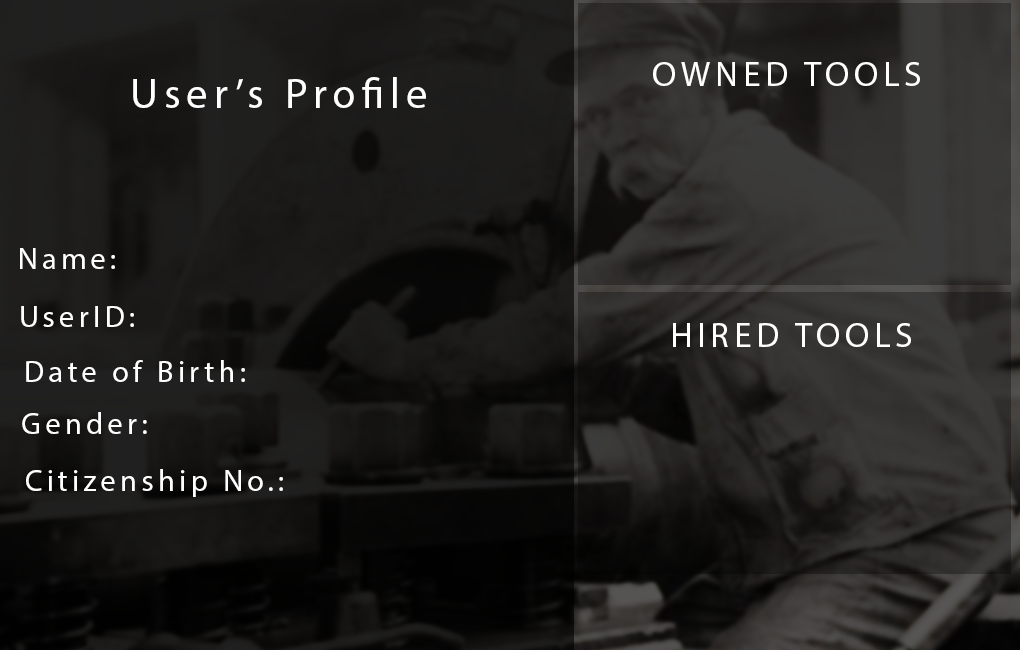
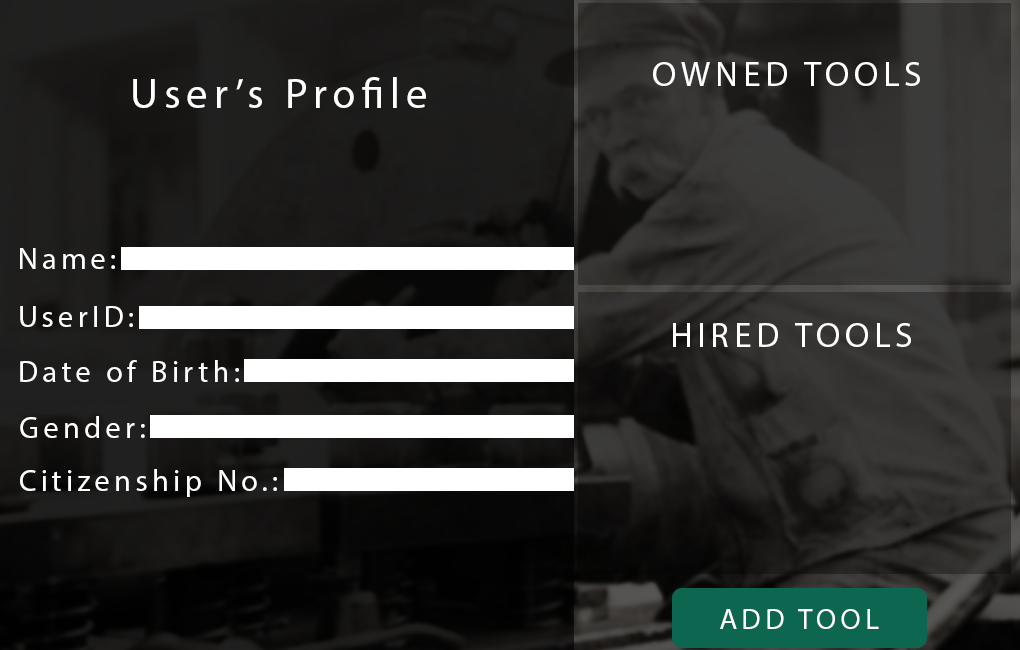
#Added placeholders to login and register screen #Added Function to view own tool and hired tool

diff --git a/final project/main with class.py b/final project/main with class.py
@@ -23,17 +23,53 @@ class LoginRegister:
         self.Login_UI()
         self.window.mainloop()
 
+    def clear_widget(event):
+        if UID_Entry == UID_Entry.focus_get() and UID_Entry.get() == 'Enter Username':
+            UID_Entry.delete(0, END)
+        elif Pass_Entry == Pass_Entry.focus_get() and Pass_Entry.get() == '          ':
+            Pass_Entry.delete(0, END)
+        elif register_name == register_name.focus_get() and register_name.get() == 'Full Name':
+            register_name.delete(0, END)
+        elif register_userid == register_userid.focus_get() and register_userid.get() == 'User ID':
+            register_userid.delete(0, END)
+        elif register_password == register_password.focus_get() and register_password.get() == '          ':
+            register_password.delete(0, END)
+        elif register_DOB == register_DOB.focus_get() and register_DOB.get() == 'Date of Birth':
+            register_DOB.delete(0, END)
+        elif register_citizenshipno == register_citizenshipno.focus_get() and register_citizenshipno.get() == 'Citizenship Number':
+            register_citizenshipno.delete(0, END)
+
+    def repopulate_defaults(event):
+        if UID_Entry != UID_Entry.focus_get() and UID_Entry.get() == '':
+            UID_Entry.insert(0, 'Enter Username')
+        elif Pass_Entry != UID_Entry.focus_get() and Pass_Entry.get() == '':
+            Pass_Entry.insert(0, '          ')
+        elif register_name != register_name.focus_get() and register_name.get() == '':
+            register_name.insert(0, "Full Name")
+        elif register_userid != register_userid.focus_get() and register_userid.get() == '':
+            register_userid.insert(0, "User ID")
+        elif register_password != register_password.focus_get() and register_password.get() == '':
+            register_password.insert(0, "          ")
+        elif register_DOB != register_DOB.focus_get() and register_DOB.get() == '':
+            register_DOB.insert(0, "Date of Birth")
+        elif register_citizenshipno != register_citizenshipno.focus_get() and register_citizenshipno.get() == '':
+            register_citizenshipno.insert(0, "Citizenship Number")
+
     def Login_UI(self):
         global UID_Entry, Pass_Entry
 
         UID_Entry = Entry(self.window, font=(15))
-        UID_Entry.insert(0, "UserID")
+        UID_Entry.insert(0, "Enter Username")
         UID_Entry.config(bd=0)
+        UID_Entry.bind("<FocusIn>", LoginRegister.clear_widget)
+        UID_Entry.bind("<FocusOut>", LoginRegister.repopulate_defaults)
         UID_Entry.place(x=370, y=347, relwidth=0.27, relheight=0.05)
 
         Pass_Entry = Entry(self.window, show="*", font=(15))
-        Pass_Entry.insert(0, "Password")
+        Pass_Entry.insert(0, "          ")
         Pass_Entry.config(bd=0)
+        Pass_Entry.bind("<FocusIn>", LoginRegister.clear_widget)
+        Pass_Entry.bind("<FocusOut>", LoginRegister.repopulate_defaults)
         Pass_Entry.place(x=370, y=433, relwidth=0.27, relheight=0.05)
 
         Login_Button_Img = PhotoImage(file="img//login_button.png")
@@ -67,26 +103,36 @@ class LoginRegister:
         register_name = Entry(self.Register_win)
         register_name.insert(0, "Full Name")
         register_name.config(bd=0)
+        register_name.bind("<FocusIn>", LoginRegister.clear_widget)
+        register_name.bind("<FocusOut>", LoginRegister.repopulate_defaults)
         register_name.place(x=600, y=145, relwidth=0.34, relheight=0.05)
 
         register_userid = Entry(self.Register_win)
-        register_userid.insert(0, "UserID")
+        register_userid.insert(0, "User ID")
         register_userid.config(bd=0)
+        register_userid.bind("<FocusIn>", LoginRegister.clear_widget)
+        register_userid.bind("<FocusOut>", LoginRegister.repopulate_defaults)
         register_userid.place(x=600, y=210, relwidth=0.34, relheight=0.05)
 
         register_password = Entry(self.Register_win, show = "*")
-        register_password.insert(0, "Password")
+        register_password.insert(0, "          ")
         register_password.config(bd=0)
+        register_password.bind("<FocusIn>", LoginRegister.clear_widget)
+        register_password.bind("<FocusOut>", LoginRegister.repopulate_defaults)
         register_password.place(x=600, y=280, relwidth=0.34, relheight=0.05)
 
         register_DOB = Entry(self.Register_win)
         register_DOB.insert(0, "Date of Birth")
         register_DOB.config(bd=0)
+        register_DOB.bind("<FocusIn>", LoginRegister.clear_widget)
+        register_DOB.bind("<FocusOut>", LoginRegister.repopulate_defaults)
         register_DOB.place(x=600, y=350, relwidth=0.34, relheight=0.05)
 
         register_citizenshipno = Entry(self.Register_win)
-        register_citizenshipno.insert(0, "CitizenShip Number")
+        register_citizenshipno.insert(0, "Citizenship Number")
         register_citizenshipno.config(bd = 0)
+        register_citizenshipno.bind("<FocusIn>", LoginRegister.clear_widget)
+        register_citizenshipno.bind("<FocusOut>", LoginRegister.repopulate_defaults)
         register_citizenshipno.place(x=600, y=420, relwidth=0.34, relheight=0.05)
 
         Register_Button_Img = PhotoImage(file="img//register_button.png")
@@ -161,7 +207,6 @@ class LoginRegister:
                 messagebox.showinfo("Login", "The Password you entered is incorrect!")
         except KeyError:
             messagebox.showinfo("Login", "The UserID you’ve entered doesn’t match any account. Please register first! ")
-
 
 class Home:
     def __init__(self):
@@ -318,19 +363,19 @@ class Profile():
     def ProfileScreen(self):
         open_db = json.load(open("database.txt"))
 
-        Profile_Name = Label(self.profile_win, text=open_db[LoggedIn_user][0]["Name"], font=(15))
-        Profile_Name.place(x = 150, y = 265)
+        Profile_Name = Label(self.profile_win, text=open_db[LoggedIn_user][0]["Name"], font=(15), bg = "white")
+        Profile_Name.place(x = 150, y = 261.5)
 
-        Profile_UserID = Label(self.profile_win, text=open_db[LoggedIn_user][0]["UserID"], font=(15))
-        Profile_UserID.place(x = 150, y = 320)
+        Profile_UserID = Label(self.profile_win, text=open_db[LoggedIn_user][0]["UserID"], font=(15), bg = "white")
+        Profile_UserID.place(x = 150, y = 321)
 
-        Profile_DOB = Label(self.profile_win, text=open_db[LoggedIn_user][0]["DOB"], font=(15))
+        Profile_DOB = Label(self.profile_win, text=open_db[LoggedIn_user][0]["DOB"], font=(15), bg = "white")
         Profile_DOB.place(x = 250, y = 375)
 
-        Profile_Gender = Label(self.profile_win, text=open_db[LoggedIn_user][0]["Gender"], font=(15))
+        Profile_Gender = Label(self.profile_win, text=open_db[LoggedIn_user][0]["Gender"], font=(15), bg = "white")
         Profile_Gender.place(x=150, y=430)
 
-        Profile_CNo = Label(self.profile_win, text=open_db[LoggedIn_user][0]["CNo"], font=(15))
+        Profile_CNo = Label(self.profile_win, text=open_db[LoggedIn_user][0]["CNo"], font=(15), bg = "white")
         Profile_CNo.place(x = 300, y = 485)
 
         Add_Tool_Img = PhotoImage(file="img//AddTool.png")
@@ -342,8 +387,60 @@ class Profile():
 
         Add_Tool_Button.image = Add_Tool_Img
 
-        # Added_Tool_Name = Label(self.profile_win, text=open_db[LoggedIn_user][0]['Own_Tools']["Name"])
-        # Added_Tool_Name.place(x=200, y = 100)
+        View_Added_Tool_Button = Button(self.profile_win, text = "View Your Added Tools", command = self.View_Added_Tool)
+        View_Added_Tool_Button.place(x = 655, y = 180)
+
+        View_Hired_Tool_Button = Button(self.profile_win, text = "View Your Hired Tools", command = self.View_Hired_Tool)
+        View_Hired_Tool_Button.place(x = 655, y= 500)
+
+
+    def View_Added_Tool(self):
+        self.view_addedTool_win = Tk()
+
+        open_db = json.load(open("database.txt"))
+        name = Label(self.view_addedTool_win, text="Name", font=(15), bg="red", foreground="white")
+        name.grid(row=0, column=0)
+        price = Label(self.view_addedTool_win, text="Price", font=(15), bg="blue", foreground="white")
+        price.grid(row=0, column=1)
+        Condition = Label(self.view_addedTool_win, text="Condition", font=(15), bg="green", foreground="white")
+        Condition.grid(row=0, column=2)
+        count = 1
+        for k in open_db[LoggedIn_user][0]["Own_Tools"].keys():
+            Searched_Item_Name = Label(self.view_addedTool_win, text=open_db[LoggedIn_user][0]["Own_Tools"][k][0]["Name"])
+            Searched_Item_Name.grid(row=count, column=0)
+            Searched_Item_Price = Label(self.view_addedTool_win, text=open_db[LoggedIn_user][0]["Own_Tools"][k][0]["Price"])
+            Searched_Item_Price.grid(row=count, column=1)
+            Searched_Item_Condition = Label(self.view_addedTool_win, text=open_db[LoggedIn_user][0]["Own_Tools"][k][0]["Condition"])
+            Searched_Item_Condition.grid(row=count, column=2)
+            count +=1
+
+        self.view_addedTool_win.mainloop()
+
+    def View_Hired_Tool(self):
+        self.view_hiredTool_win = Tk()
+
+        open_db = json.load(open("database.txt"))
+        name = Label(self.view_hiredTool_win, text="Name", font=(15), bg="red", foreground="white")
+        name.grid(row=0, column=0)
+        price = Label(self.view_hiredTool_win, text="Price", font=(15), bg="blue", foreground="white")
+        price.grid(row=0, column=1)
+        Condition = Label(self.view_hiredTool_win, text="Condition", font=(15), bg="green", foreground="white")
+        Condition.grid(row=0, column=2)
+        Time = Label(self.view_hiredTool_win, text="Time", font=(15), bg="Gray", foreground="white")
+        Time.grid(row=0, column=3)
+        count = 1
+        for k in open_db[LoggedIn_user][0]["Hired_Tools"].keys():
+            Searched_Item_Name = Label(self.view_hiredTool_win, text=open_db[LoggedIn_user][0]["Hired_Tools"][k][0]["Name"])
+            Searched_Item_Name.grid(row=count, column=0)
+            Searched_Item_Price = Label(self.view_hiredTool_win, text=open_db[LoggedIn_user][0]["Hired_Tools"][k][0]["Price"])
+            Searched_Item_Price.grid(row=count, column=1)
+            Searched_Item_Condition = Label(self.view_hiredTool_win, text=open_db[LoggedIn_user][0]["Hired_Tools"][k][0]["Condition"])
+            Searched_Item_Condition.grid(row=count, column=2)
+            Searched_Item_Condition = Label(self.view_hiredTool_win, text=open_db[LoggedIn_user][0]["Hired_Tools"][k][0]["Time"])
+            Searched_Item_Condition.grid(row=count, column=3)
+            count +=1
+
+        self.view_hiredTool_win.mainloop()
 
     def Add_Tools(self):
         global Tools_name_entry, Tools_price_entry, Tools_condition_entry
